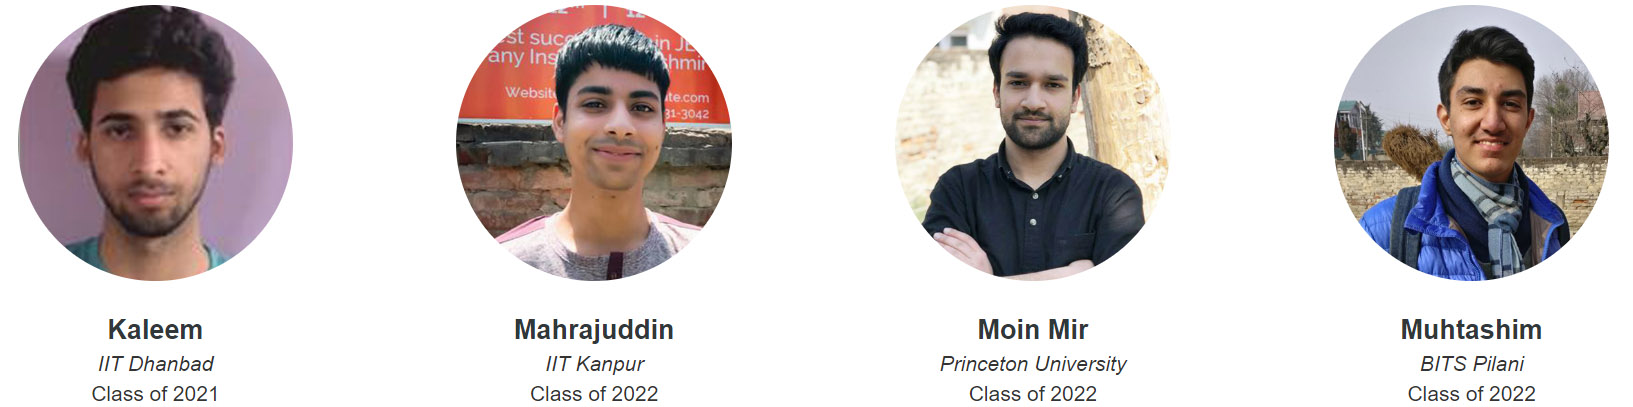
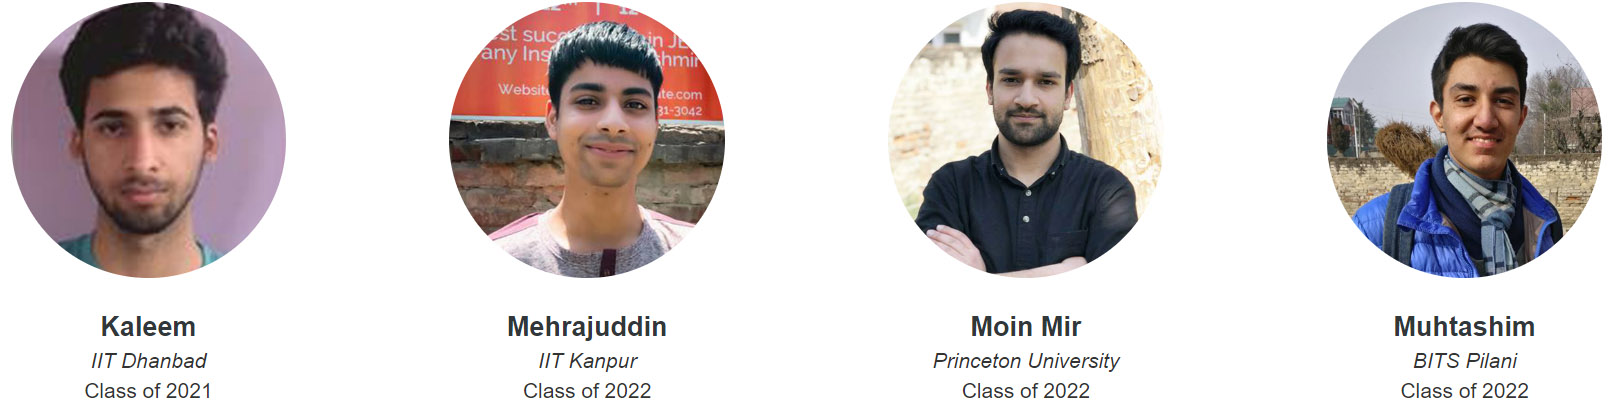
ds

diff --git a/media.html b/media.html
@@ -194,7 +194,6 @@
 	
 <div class="container">
 		<div id="Grid">
-			<div class="row">
 				<div class="media-icons col-xs-4 col-md-3">
 					<div class="thumb-post">
                         <a href="https://www.youtube.com/watch?v=u5bR2IVl02c" target="_blank"><img src="images/media/cnn.jpg"></a>
@@ -220,10 +219,6 @@
 				</div> <!-- /.col-md-4 -->
 
 				
-			</div>
-
-			<div class="row">
-			
 			<div class="media-icons col-xs-4 col-md-3">
 					<div class="thumb-post">
                         <a href="http://www.business-standard.com/article/news-ani/four-srinagar-based-students-crack-iit-jee-open-new-vista-for-others-116062100340_1.html" target="_blank"><img src="images/media/bs.jpg"></a>
@@ -250,8 +245,6 @@
 
 				
 
-		  <div class="row">
-		  
 		  <div class="media-icons col-xs-4 col-md-3">
 					<div class="thumb-post">
                         <a href="https://www.youtube.com/watch?v=PTs61Z1eaEE" target="_blank"><img src="images/media/anilogo.jpg"></a>
@@ -276,8 +269,6 @@
 					</div>
 				</div> <!-- /.col-md-4 -->
 				
-			</div>
-			<div class="row">
 				<div class="media-icons col-xs-4 col-md-3">
 					<div class="thumb-post">
                         <a href="http://www.livemint.com/Politics/b622sv9UEiUmRMgMxxpqZP/Mock-tests-on-your-smartphone.html" target="_blank"><img src="images/media/lm.jpg"></a>
@@ -301,7 +292,7 @@
                         <a href="http://www.dailyexcelsior.com/jk-bank-sponsored-rtse-concludes-with-prize-distribution/" target="_blank"><img src="images/media/excelsior.jpg"></a>
 					</div>
 				</div> <!-- /.col-md-4 -->
-				</div>
+				
 			</div>
 		</div> <!-- /.portfolio-holder -->
 	</div> <!-- /.container -->

diff --git a/empowerment.html b/empowerment.html
@@ -689,7 +689,7 @@ Team RiSE aims at providing comprehensive preparatory classes <br/>to improve th
                         <img  style="border-radius: 50%; width: 70%" src="images/achievers/mehrajuddin.jpg" alt="Ion Template">
 						</div>
 						<br/>
-						<div align="center" style="font-size: 18px "> <b>Mahrajuddin</b></div>
+						<div align="center" style="font-size: 18px "> <b>Mehrajuddin</b></div>
 						
 						<div align="center" style="font-style: italic"> IIT Kanpur</div>
 						<div align="center"> Class of 2022</div>

diff --git a/leadership.html b/leadership.html
@@ -200,8 +200,7 @@
 	<div style="position: relative;
     top: 75%;
     transform: translateY(-50%);  "> <h1><strong><span style="font-family: 'Work Sans', sans-serif;"> <span style="color:#e28d55">Team</span> </span></strong></h2><center><br>
-		<p style="padding-top:1%; padding-bottom:6%; text-align:left; color:white; font-family: 'Work Sans', sans-serif; font-size:1.3em;width: 47%;float: left" > 
-RiSE is just not an organization. It’s a movement for a better tomorrow. 
+
  </p>
 	
 	
